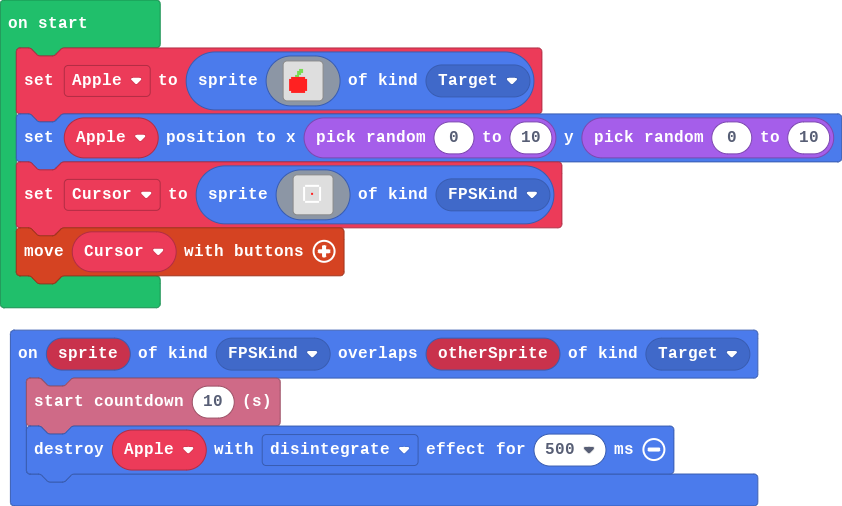
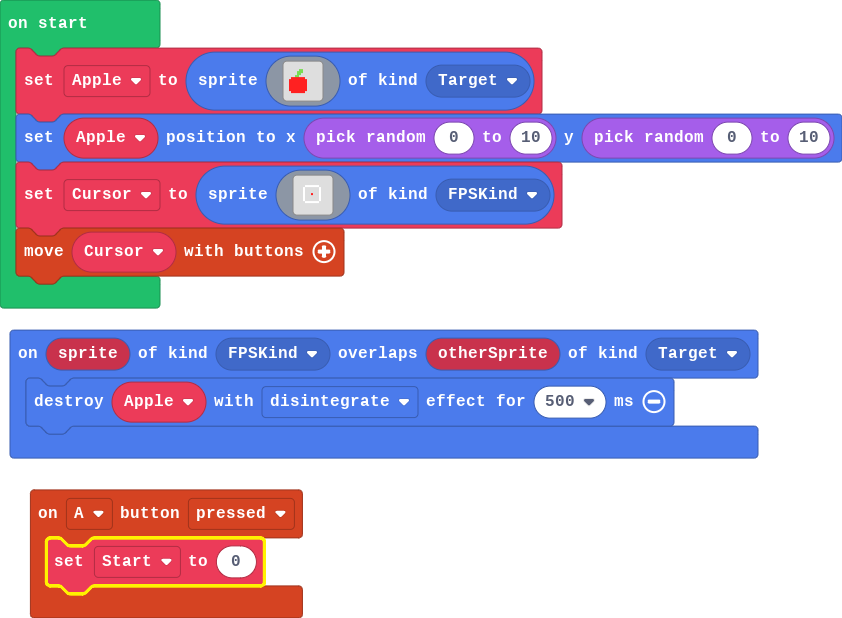
Update pxt.json, main.blocks, main.ts

diff --git a/main.ts b/main.ts
@@ -2,10 +2,13 @@ namespace SpriteKind {
     export const Target = SpriteKind.create()
     export const FPSKind = SpriteKind.create()
 }
+controller.A.onEvent(ControllerButtonEvent.Pressed, function () {
+    Start = 0
+})
 sprites.onOverlap(SpriteKind.FPSKind, SpriteKind.Target, function (sprite, otherSprite) {
-    info.startCountdown(10)
     Apple.destroy(effects.disintegrate, 500)
 })
+let Start = 0
 let Apple: Sprite = null
 Apple = sprites.create(img`
     . . . . . . . . . . . . . . . . 
